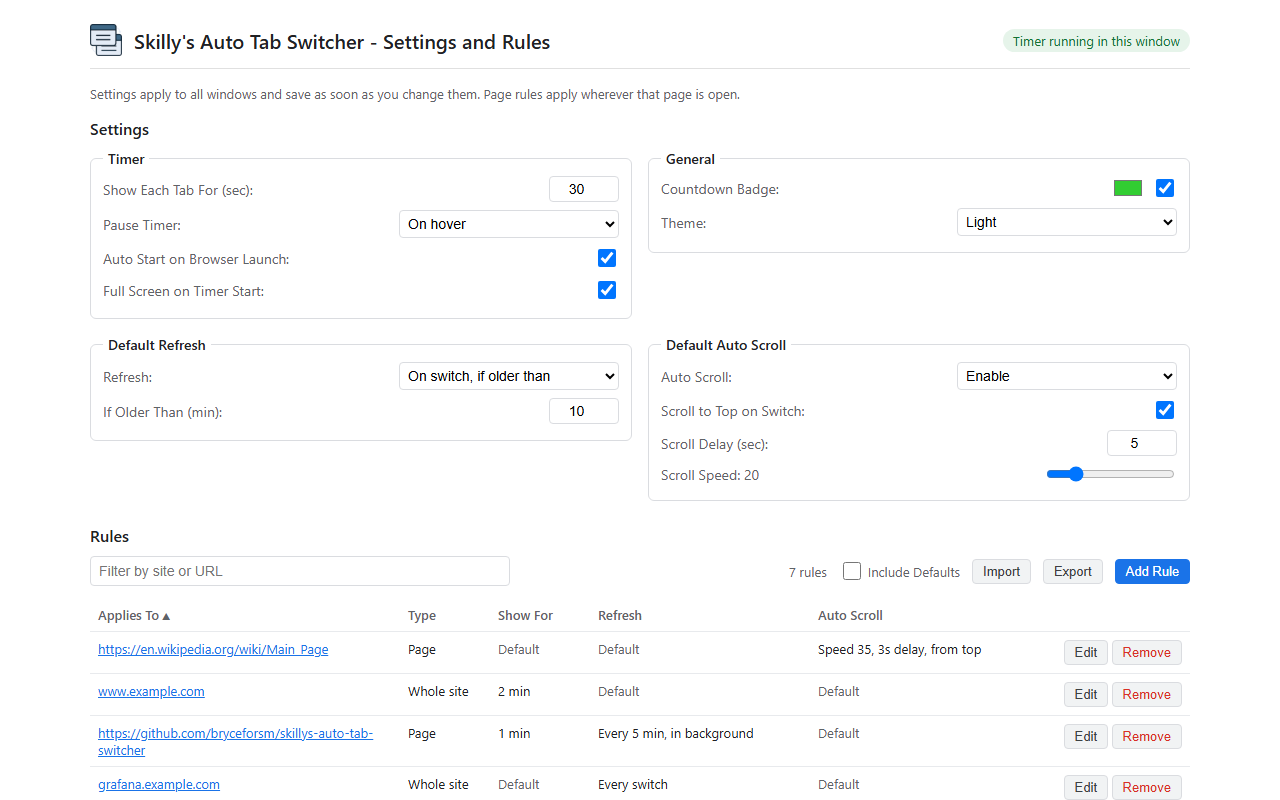
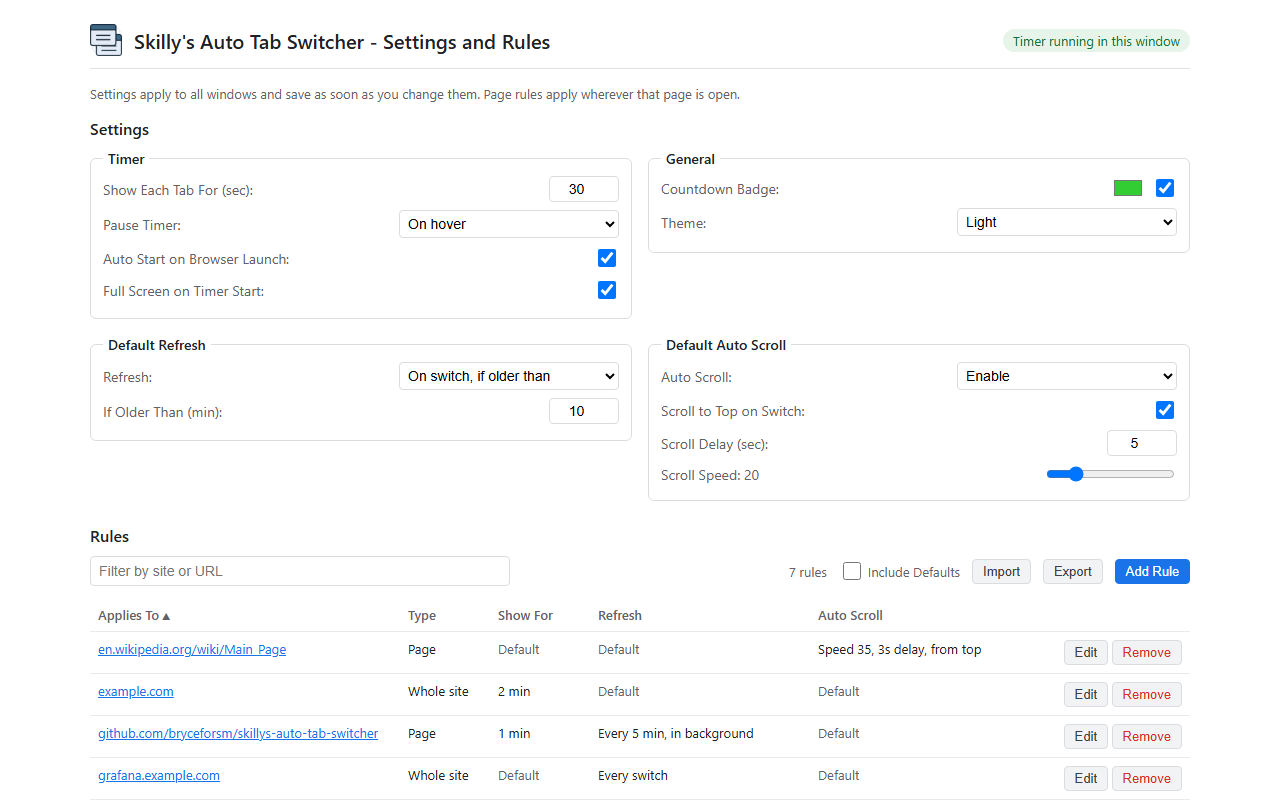
Enhance pause timer functionality and update related documentation for clarity

diff --git a/TabSwitcherExtension/rules.js b/TabSwitcherExtension/rules.js
@@ -144,17 +144,24 @@ function plural(n, word) {
     return `${n} ${n === 1 ? word : word + 's'}`;
 }
 
-function siteHomeUrl(host) {
-    const hostname = host.replace(/:\d+$/, '');
-    // Site rules don't store a scheme. Local names and IPs rarely have certificates.
+// Site rules saved before the scheme was stored fall back to a guess.
+function ruleUrl(key, rule) {
+    const target = key.slice(5);
+    if (key.startsWith('page:')) return target;
+    const hostname = target.replace(/:\d+$/, '');
     const local = hostname === 'localhost' || !hostname.includes('.') || /^[\d.]+$/.test(hostname) || hostname.startsWith('[');
-    return (local ? 'http://' : 'https://') + host + '/';
+    return (rule?.scheme || (local ? 'http' : 'https')) + '://' + target;
+}
+
+// Typed URLs default to https, so only other schemes are shown.
+function displayTarget(key, rule) {
+    return ruleUrl(key, rule).replace(/^https:\/\//i, '');
 }
 
 function targetCell(key) {
     const td = cell('', 'target');
-    const text = key.slice(5);
-    const url = key.startsWith('host:') ? siteHomeUrl(text) : text;
+    const url = ruleUrl(key, settings.pageRules[key]);
+    const text = displayTarget(key, settings.pageRules[key]);
     // Only link URLs the extension itself would produce, never arbitrary schemes from storage.
     if (!ruleKeysForUrl(url)) {
         td.textContent = text;
@@ -183,8 +190,8 @@ function sortValue(key, column) {
         case 'display': return rule.display ? rule.display.seconds : null;
         case 'refresh': return rule.refresh ? describeRefresh(rule.refresh) : null;
         case 'scroll': return rule.scroll ? describeScroll(rule.scroll) : null;
-        // The scheme and "www." are left out so a site and its pages sort together.
-        default: return key.slice(5).replace(/^[a-z]+:\/\//i, '').replace(/^www\./i, '');
+        // The scheme is left out so a site and its pages sort together.
+        default: return key.slice(5).replace(/^[a-z]+:\/\//i, '');
     }
 }
 
@@ -211,7 +218,7 @@ function sortKeys(keys) {
 function render() {
     const allKeys = Object.keys(settings.pageRules);
     const filter = $('filter').value.trim().toLowerCase();
-    const keys = sortKeys(allKeys.filter((key) => key.slice(5).toLowerCase().includes(filter)));
+    const keys = sortKeys(allKeys.filter((key) => displayTarget(key, settings.pageRules[key]).toLowerCase().includes(filter)));
 
     for (const header of document.querySelectorAll('button.sort')) {
         const th = header.parentElement;
@@ -260,7 +267,7 @@ function openEditor(key) {
     editingKey = key;
     $('editTitle').textContent = key ? 'Edit Rule' : 'Add Rule';
     $('editType').value = key && key.startsWith('page:') ? 'page' : 'host';
-    $('editUrl').value = key ? key.slice(5) : '';
+    $('editUrl').value = key ? displayTarget(key, rule) : '';
     validateUrl();
 
     $('editRefresh').value = rule.refresh ? rule.refresh.mode : 'default';
@@ -302,24 +309,25 @@ function parseTarget(text, isSite) {
     const keys = ruleKeysForUrl(url.href);
     const key = isSite ? keys.site : keys.page;
     if (!key) return { error: 'File URLs have no site. Use a page rule instead.' };
-    const twin = isSite ? keys.siteTwin : keys.pageTwin;
+    // Site keys carry no scheme, so it is kept on the rule for opening the site later.
+    const scheme = isSite ? url.protocol.slice(0, -1) : undefined;
     const host = url.hostname;
     if (host && !host.includes('.') && !host.startsWith('[') && host !== 'localhost') {
-        return { key, twin, warning: ` (no dot, so this only matches a computer on your local network. Did you mean ${host}.com?)` };
+        return { key, scheme, warning: ` (no dot, so this only matches a computer on your local network. Did you mean ${host}.com?)` };
     }
-    return { key, twin };
+    return { key, scheme };
 }
 
 function validateUrl() {
     const isSite = $('editType').value === 'host';
     $('editUrlLabel').textContent = isSite ? 'Site:' : 'Page URL:';
     const result = parseTarget($('editUrl').value, isSite);
-    const { key, error, warning } = result;
+    const { key, error, warning, scheme } = result;
     $('editUrl').setCustomValidity(error || '');
     // An empty box on a new rule is not a mistake yet, so show the hint without the error color.
     $('editTarget').classList.toggle('error', !!error && $('editUrl').value.trim() !== '');
     $('editTarget').classList.toggle('warning', !!warning);
-    $('editTarget').textContent = error || (isSite ? 'Whole site: ' : 'Page: ') + key.slice(5) + (warning || '');
+    $('editTarget').textContent = error || (isSite ? 'Whole site: ' : 'Page: ') + displayTarget(key, { scheme }) + (warning || '');
     return result;
 }
 
@@ -341,7 +349,7 @@ async function updateRules(change, extra = {}) {
 async function saveEdit(event) {
     event.preventDefault();
     const oldKey = editingKey;
-    const { key, twin } = validateUrl();
+    const { key, scheme } = validateUrl();
     if (!key) return;
     const rule = {};
     const mode = $('editRefresh').value;
@@ -365,16 +373,9 @@ async function saveEdit(event) {
         $('editRefresh').reportValidity();
         return;
     }
-    if (key !== oldKey && twin && twin !== oldKey && settings.pageRules[twin]) {
-        const what = key.startsWith('host:') ? 'site' : 'page';
-        if (confirm(`A rule for ${twin.slice(5)} already covers this ${what}. Edit that rule instead?`)) {
-            $('editor').close();
-            openEditor(twin);
-        }
-        return;
-    }
+    if (scheme) rule.scheme = scheme;
     if (key !== oldKey && settings.pageRules[key]
-        && !confirm(`A rule for ${key.slice(5)} already exists. Replace it?`)) return;
+        && !confirm(`A rule for ${displayTarget(key, settings.pageRules[key])} already exists. Replace it?`)) return;
     await updateRules((rules) => {
         if (oldKey) delete rules[oldKey];
         if (rule.refresh || rule.scroll || rule.display) rules[key] = rule;

diff --git a/TabSwitcherExtension/shared.js b/TabSwitcherExtension/shared.js
@@ -14,7 +14,8 @@ const DEFAULTS = {
     pauseMode: 'disable',
     defaultRefresh: { mode: 'switch', minutes: 5 },
     defaultScroll: { autoScroll: false, scrollToTop: false, scrollDelay: 5, scrollSpeed: 20 },
-    // "host:<host>" or "page:<url>" -> { refresh?, scroll?, display? }. A missing section means use the default.
+    // "host:<host>" or "page:<url>" -> { refresh?, scroll?, display?, scheme? }. A missing section means use the default.
+    // scheme is only kept on site rules, for opening the site from the rules page.
     pageRules: {},
     autoStart: false,
     fullscreenOnStart: false,
@@ -71,16 +72,20 @@ function normalizeSettings(raw) {
         Object.entries(raw.refreshRules || {}).map(([key, refresh]) => [key, { refresh }])
     );
     const pageRules = {};
-    for (const [key, rule] of Object.entries(sourceRules)) {
-        if (!key.startsWith('host:') && !key.startsWith('page:')) continue;
+    for (const [rawKey, rule] of Object.entries(sourceRules)) {
+        if (!rawKey.startsWith('host:') && !rawKey.startsWith('page:')) continue;
         const refresh = normalizeRefresh(rule && rule.refresh, null);
         const scroll = normalizeScroll(rule && rule.scroll, null);
         const display = normalizeDisplay(rule && rule.display, null);
         if (!refresh && !scroll && !display) continue;
-        pageRules[key] = {};
-        if (refresh) pageRules[key].refresh = refresh;
-        if (scroll) pageRules[key].scroll = scroll;
-        if (display) pageRules[key].display = display;
+        const key = normalizeKey(rawKey);
+        const entry = {};
+        if (refresh) entry.refresh = refresh;
+        if (scroll) entry.scroll = scroll;
+        if (display) entry.display = display;
+        if (key.startsWith('host:') && ['http', 'https'].includes(rule.scheme)) entry.scheme = rule.scheme;
+        // Older versions could save two forms of the same key. The one already in normal form wins per section.
+        pageRules[key] = key === rawKey ? { ...pageRules[key], ...entry } : { ...entry, ...pageRules[key] };
     }
 
     return {
@@ -97,8 +102,13 @@ function normalizeSettings(raw) {
     };
 }
 
+// Keys drop a leading "www." and, on web pages, a trailing slash, so both forms of an address match.
+function normalizeKey(key) {
+    const bare = key.replace(/^(host:|page:https?:\/\/)www\.(?=[^/:]+\.)/i, '$1');
+    return /^page:https?:/i.test(bare) ? bare.replace(/\/+$/, '') : bare;
+}
+
 // Rule keys for a URL: "host:<host>" for the whole site, "page:<url without query or hash>" for one page.
-// The twin keys are the same URL with "www." added or removed, which counts as the same site.
 function ruleKeysForUrl(url) {
     let u;
     try {
@@ -107,12 +117,9 @@ function ruleKeysForUrl(url) {
         return null;
     }
     if (!['http:', 'https:', 'file:'].includes(u.protocol)) return null;
-    const twin = u.host.startsWith('www.') ? u.host.slice(4) : 'www.' + u.host;
     return {
-        site: u.host ? 'host:' + u.host : null,
-        page: 'page:' + u.protocol + '//' + u.host + u.pathname,
-        siteTwin: u.host ? 'host:' + twin : null,
-        pageTwin: u.host ? 'page:' + u.protocol + '//' + twin + u.pathname : null
+        site: u.host ? normalizeKey('host:' + u.host) : null,
+        page: normalizeKey('page:' + u.protocol + '//' + u.host + u.pathname)
     };
 }
 
@@ -120,7 +127,7 @@ function ruleKeysForUrl(url) {
 function ruleSectionFor(settings, url, section) {
     const keys = ruleKeysForUrl(url);
     if (!keys) return null;
-    for (const key of [keys.page, keys.pageTwin, keys.site, keys.siteTwin]) {
+    for (const key of [keys.page, keys.site]) {
         const rule = key && settings.pageRules[key];
         if (rule && rule[section]) return rule[section];
     }

diff --git a/TabSwitcherExtension/background.js b/TabSwitcherExtension/background.js
@@ -12,6 +12,7 @@ let tabLoadedAt = {}; // tabId -> timestamp of the last completed load
 let loadTimesTimer = null;
 let ticker = null;
 const windows = new Map(); // windowId -> state, only for windows where the timer is running
+const popupWindows = new Set(); // windows with the popup open
 
 const ready = init().catch((err) => console.error("Skilly's Auto Tab Switcher failed to initialise", err));
 
@@ -70,8 +71,12 @@ function newWindowState(windowId) {
     };
 }
 
+function popupPaused(w) {
+    return settings.pauseMode === 'hover' && popupWindows.has(w.windowId);
+}
+
 function isPaused(w) {
-    return activityPaused || w.hoverPaused || w.waitingTabId !== null;
+    return activityPaused || w.hoverPaused || popupPaused(w) || w.waitingTabId !== null;
 }
 
 function remainingMs(w) {
@@ -311,9 +316,13 @@ function handleHover(isHovering, tab) {
     const w = windows.get(tab.windowId);
     if (!w) return;
     w.hoverPaused = !!isHovering;
-    if (w.hoverPaused) pause(w); else resume(w);
+    updatePause(w);
+}
+
+function updatePause(w) {
+    if (isPaused(w)) pause(w); else resume(w);
     persistRunning();
-    renderBadge(tab.windowId);
+    renderBadge(w.windowId);
 }
 
 function scrollSignature(s) {
@@ -327,6 +336,8 @@ function applySettingsChange(prev) {
         if (prev.pauseMode === 'hover' && settings.pauseMode !== 'hover') w.hoverPaused = false;
         if (displaySecondsFor(prev, w.activeUrl) !== displaySecondsFor(settings, w.activeUrl)) {
             restartCountdown(w);
+        } else if (isPaused(w)) {
+            pause(w);
         } else {
             resume(w);
         }
@@ -400,7 +411,7 @@ async function renderBadge(windowId) {
     if (activityPaused) {
         text = '...';
         color = PAUSE_COLOR;
-    } else if (w.hoverPaused) {
+    } else if (w.hoverPaused || popupPaused(w)) {
         text = '||';
         color = PAUSE_COLOR;
     } else if (w.waitingTabId !== null) {
@@ -426,6 +437,29 @@ chrome.runtime.onMessage.addListener((msg, sender, sendResponse) => {
         sendResponse({ running: windows.has(msg.windowId) });
     });
     return true;
+});
+
+// The popup holds a port open while it is shown, so On hover also covers editing in the popup.
+chrome.runtime.onConnect.addListener((port) => {
+    if (port.name !== 'popup' || port.sender.tab) return;
+    let windowId = null;
+    const update = () => {
+        const w = windows.get(windowId);
+        if (w) updatePause(w);
+    };
+    port.onMessage.addListener((msg) => {
+        windowId = msg.windowId;
+        ready.then(() => {
+            popupWindows.add(windowId);
+            update();
+        });
+    });
+    port.onDisconnect.addListener(() => {
+        ready.then(() => {
+            popupWindows.delete(windowId);
+            update();
+        });
+    });
 });
 
 chrome.storage.onChanged.addListener((changes, area) => {

diff --git a/TabSwitcherExtension/popup.js b/TabSwitcherExtension/popup.js
@@ -21,6 +21,7 @@ async function init() {
         chrome.storage.local.get(null)
     ]);
     currentWindowId = win.id;
+    chrome.runtime.connect({ name: 'popup' }).postMessage({ windowId: currentWindowId });
     defaults = normalizeSettings(stored);
 
     rules = structuredClone(defaults.pageRules);
@@ -78,9 +79,6 @@ function setupPageEditor(tab) {
         $('pageRuleUnavailable').hidden = false;
         return;
     }
-    // Edit a rule saved under the www or non-www form rather than creating a second one.
-    if (!rules[pageKeys.site] && rules[pageKeys.siteTwin]) pageKeys.site = pageKeys.siteTwin;
-    if (!rules[pageKeys.page] && rules[pageKeys.pageTwin]) pageKeys.page = pageKeys.pageTwin;
     // Pages without a rule start collapsed to a one-line summary.
     customizing = !!(rules[pageKeys.page] || (pageKeys.site && rules[pageKeys.site]));
     pageUrl = tab.url;
@@ -136,7 +134,13 @@ function onRuleEdit() {
             scrollSpeed: clampInt($('ruleScrollSpeed').value, 1, 100, 20)
         };
     }
-    if (rule.refresh || rule.scroll || rule.display) rules[key] = rule; else delete rules[key];
+    if (rule.refresh || rule.scroll || rule.display) {
+        // Remembered so the rules page can open the site the way it was visited.
+        if (key.startsWith('host:')) rule.scheme = new URL(pageUrl).protocol.slice(0, -1);
+        rules[key] = rule;
+    } else {
+        delete rules[key];
+    }
     updateVisibility();
     renderRuleList();
     checkUnsavedChanges();

diff --git a/.github/skills/store-screenshots/assets/mock.js b/.github/skills/store-screenshots/assets/mock.js
@@ -12,7 +12,7 @@
             'host:status.example.com': { display: { seconds: 15 }, scroll: { autoScroll: false, scrollToTop: false, scrollDelay: 5, scrollSpeed: 20 } },
             'host:homeassistant.local:8123': { display: { seconds: 45 }, refresh: { mode: 'never', minutes: 5 } },
             'page:https://en.wikipedia.org/wiki/Main_Page': { scroll: { autoScroll: true, scrollToTop: true, scrollDelay: 3, scrollSpeed: 35 } },
-            'host:www.example.com': { display: { seconds: 120 } },
+            'host:example.com': { display: { seconds: 120 } },
             'page:https://sales.example.com/reports/weekly': { display: { seconds: 90 }, refresh: { mode: 'stale', minutes: 30 } }
         },
         autoStart: true,
@@ -37,7 +37,7 @@
         },
         windows: { getCurrent: async () => ({ id: 1 }) },
         tabs: { query: async () => [{ id: 1, url: 'https://github.com/bryceforsm/skillys-auto-tab-switcher' }], create() {} },
-        runtime: { sendMessage: async () => ({ running: !outOfBox }), openOptionsPage() {} }
+        runtime: { sendMessage: async () => ({ running: !outOfBox }), connect: () => ({ postMessage() {} }), openOptionsPage() {} }
     };
 
     document.addEventListener('DOMContentLoaded', () => {

diff --git a/TabSwitcherExtension/rules.html b/TabSwitcherExtension/rules.html
@@ -384,7 +384,7 @@
                     <label for="interval">Show Each Tab For (sec):</label>
                     <input type="number" id="interval" min="5" max="86400" value="30">
                 </div>
-                <div class="control-group" title="Choose how to pause the timer: Disable (never pause), On activity (pause when mouse/keyboard used), or On hover (pause when mouse is over the page).">
+                <div class="control-group" title="Choose how to pause the timer: Disable (never pause), On activity (pause when mouse/keyboard used), or On hover (pause when mouse is over the page or the popup is open).">
                     <label for="pauseMode">Pause Timer:</label>
                     <select id="pauseMode">
                         <option value="disable">Disable</option>

diff --git a/TabSwitcherExtension/popup.html b/TabSwitcherExtension/popup.html
@@ -293,7 +293,7 @@
         <label for="interval">Show Each Tab For (sec):</label>
         <input type="number" id="interval" min="5" value="30">
     </div>
-    <div class="control-group" title="Choose how to pause the timer: Disable (never pause), On activity (pause when mouse/keyboard used), or On hover (pause when mouse is over the page).">
+    <div class="control-group" title="Choose how to pause the timer: Disable (never pause), On activity (pause when mouse/keyboard used), or On hover (pause when mouse is over the page or this popup is open).">
         <label for="pauseMode">Pause Timer:</label>
         <select id="pauseMode">
             <option value="disable">Disable</option>

diff --git a/Misc/STORE_LISTING.md b/Misc/STORE_LISTING.md
@@ -24,7 +24,7 @@ FEATURES
 - Smart refresh: reload on every switch, never, only when the page is older than N minutes, or periodically in the background so it is ready before it is shown.
 - Per-site and per-page rules: override how long a page is shown, its refresh and its scrolling for a whole site or a single page. Keep a key dashboard on screen longer while everything else rotates quickly. Page rules win over site rules, and each setting falls back to your defaults on its own.
 - Auto scroll: smoothly scroll long pages with adjustable speed and start delay, with an option to jump back to the top on each switch.
-- Pause when you need it: pause the timer when you use the mouse or keyboard, or only while hovering over the page.
+- Pause when you need it: pause the timer when you use the mouse or keyboard, or only while hovering over the page or changing settings in the popup.
 - Auto-start: begin rotating automatically when the browser launches or a new window opens. Great for kiosks and unattended screens.
 - Full screen on start: go full screen when the timer starts and restore the window when it stops.
 - Countdown badge: see the seconds until the next switch on the toolbar icon, in the color of your choice, or hide it.

diff --git a/.github/copilot-instructions.md b/.github/copilot-instructions.md
@@ -17,8 +17,8 @@ Settings live in `chrome.storage.local`, and every reader goes through `normaliz
 ## Rules model
 
 - Keys are `host:<host incl. port>` for a whole site and `page:<protocol//host+path>` for a page (no query or hash).
-- Each rule has optional sections: `refresh`, `scroll` and `display` (seconds on screen). A missing section means "use default".
-- Each section is resolved on its own: page rule, then site rule, then the global default (`ruleSectionFor()` in `shared.js`). `www.` and the bare domain are treated as the same site. Don't mention that in the UI or docs.
+- Each rule has optional sections: `refresh`, `scroll` and `display` (seconds on screen). A missing section means "use default". Site rules also keep `scheme` (`http` or `https`), only for opening the site from the rules page.
+- Each section is resolved on its own: page rule, then site rule, then the global default (`ruleSectionFor()` in `shared.js`). Keys never keep a leading `www.` or, for web pages, a trailing slash (`normalizeKey()` in `shared.js`), so both forms of an address match.
 - In the UI, `switchInterval` is labelled **Show Each Tab For** and `display` is labelled **Show For**.
 
 ## Constraints

diff --git a/README.md b/README.md
@@ -27,7 +27,7 @@ This extension automatically switches between your open tabs at an interval you 
 1.  **Popup:**
     - Click the extension icon to open the popup.
     - Set **Show Each Tab For** in seconds (minimum 5).
-    - Select **Pause Timer** mode: Disable, On activity, or On hover.
+    - Select **Pause Timer** mode: Disable, On activity, or On hover. On hover also pauses while this popup is open.
     - **Current Tab** shows the site or page open in the active tab and the settings in effect for it. Click **Customize** to give it its own rule (pages that already have a rule open the editor straight away):
         - **Apply To** picks the whole site or this page only. A page rule beats a site rule, and each setting is resolved separately, so a page can override scrolling while still using its site's refresh rule.
         - **Show For** keeps this site or page on screen for a custom number of seconds before switching, instead of **Show Each Tab For**.
